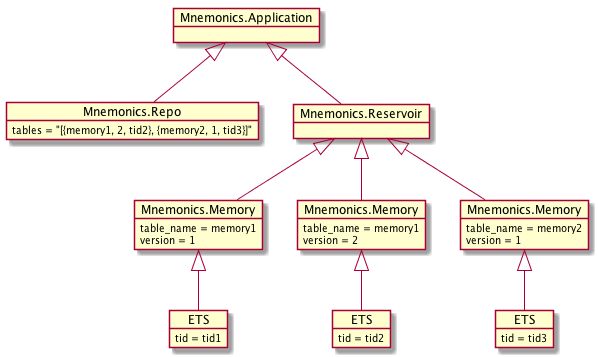
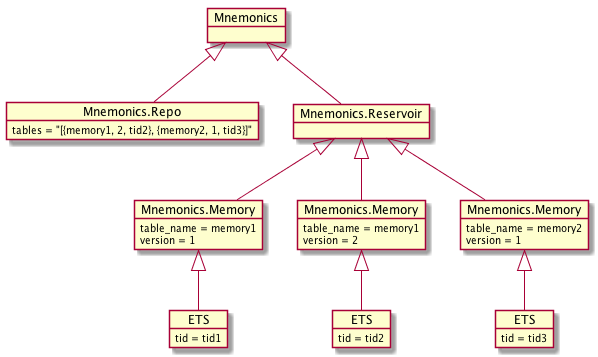
Multiple Mnemonics with explicit Supervisor.

Changed region(s): [[0.2709, 0.0, 0.5719, 0.1541]]

diff --git a/README.md b/README.md
@@ -11,7 +11,7 @@ Mnemonics is analogous to Ruby's [ActiveHash](https://rubygems.org/gems/active_h
 
 Installation
 --
-Add `mnemonics` to your list of dependencies in `mix.exs`:
+Add `mnemonics` to your list of dependencies in `mix.exs`.
 
 ```elixir
 def deps do
@@ -21,14 +21,25 @@ def deps do
 end
 ```
 
-Usage
---
-Config Mnemonics ets_dir. `config.exs`:
+Start under your application.
 
 ```elixir
-config :mnemonics, :ets_dir, "priv/repo/seeds"
+defmodule Your.Application do
+  use Application
+
+  def start(_type, _args) do
+    children = [
+      {Mnemonics, [name: Your.Mnemonics, ets_dir: "/tmp"]}
+    ]
+
+    opts = [strategy: :one_for_one, name: Your.Supervisor]
+    Supervisor.start_link(children, opts)
+  end
+end
 ```
 
+Usage
+--
 Create an `example.ets` by `:ets.tab2file/3`. Then put it into the ets_dir. The `examples.ets` stores `{:example1, %{id: :example1}}`.
 
 ```
@@ -42,7 +53,7 @@ Create an `Example` module, use Mnemonics & load.
 
 ```elixir
 defmodule Example do
-  use Mnemonics, table_name: :examples
+  use Mnemonics, table_name: :examples, sup_name: Your.Mnemonics
 end
 
 Example.load 1
